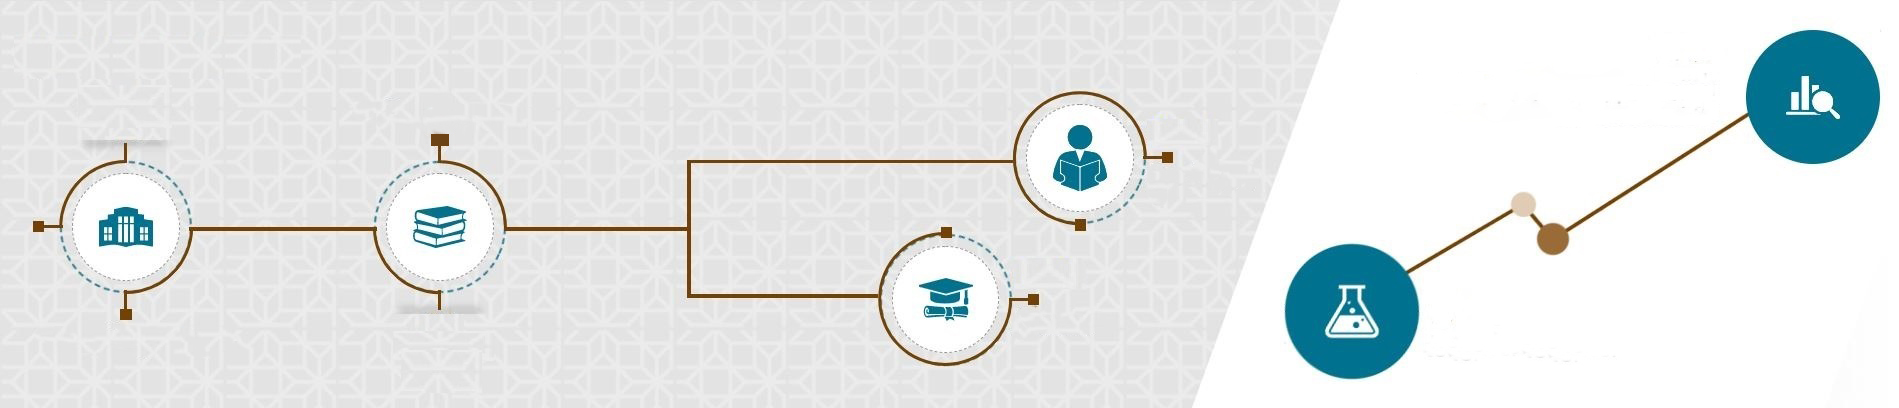
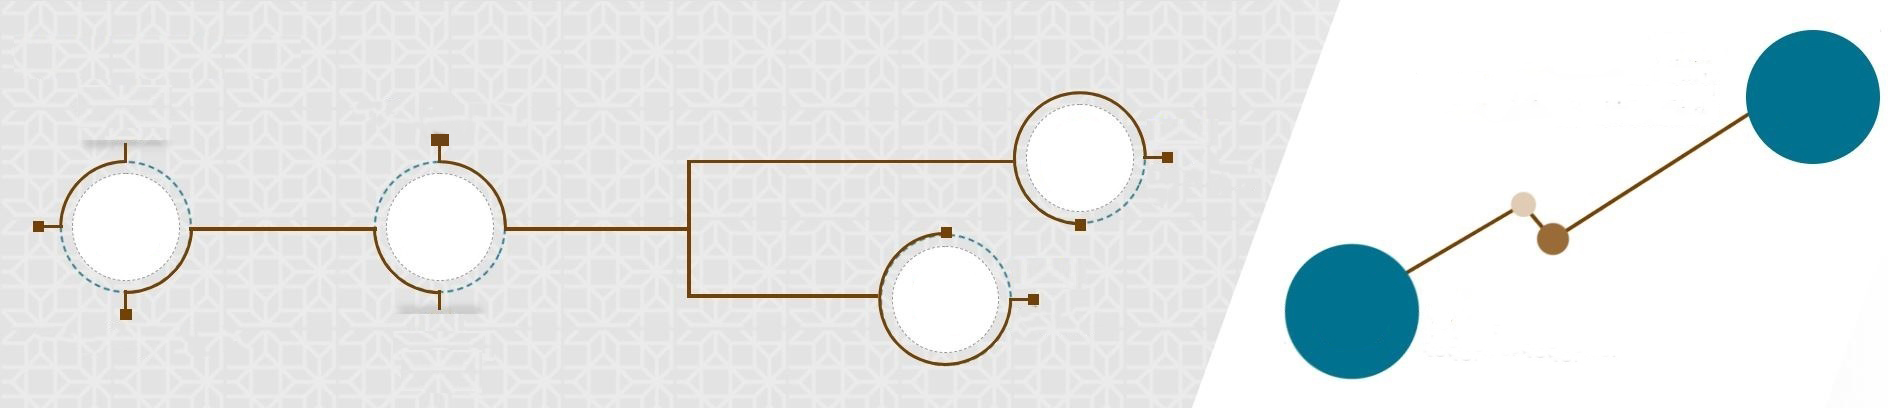
quick facts

diff --git a/index - Copy.html b/index - Copy.html
@@ -474,32 +474,25 @@
 						</div>
 						<div class="row">
 							<div class="col-sm-12 quickfact1 quickfact-image">
-								<div class="colleges-sm-number">501</div>
+								<div class="colleges-sm-number">50</div>
 								<div class="colleges-sm-text">Colleges</div>
-								<img class="colleges-xs-img" src="assets/images/svg/infograph-colleges.svg" alt="">
-								<div class="program-sm-number">25</div>
+				                 <div class="program-sm-number">25</div>
 								<div class="program-sm-text">Programs</div>
-								<img class="program-xs-img" src="assets/images/svg/infograph-programs.svg" alt="">
 								<div class="students-sm-number">10</div>
 								<div class="students-sm-text">Student</div>
-								<img class="students-xs-img" src="assets/images/svg/infograph-current-students.svg" alt="">
 								<div class="alumni-sm-number">20</div>
 								<div class="alumni-sm-text">Alumni</div>
-								<img class="alumni-xs-img" src="assets/images/svg/infograph-alumnis.svg" alt="">
 
 								<img src="assets/images/gallery/quick_facts1.jpg" style="width: 100%;">
 							</div>
 							<div class="col-sm-12 quickfact2 quickfact-image">
-								<img class="research-xs-img" src="assets/images/svg/infograph-research.svg" alt="">
 								<div class="research-sm-number">5</div>
 								<div class="research-sm-text">Research centers</div>
-								
 								<div class="projects-sm-number">5+</div>
 								<div class="projects-sm-text">Collaborative project with
 									<br>
 									international institution
 								</div>
-								<img class="projects-xs-img" src="assets/images/svg/infograph-research-increase.svg" alt="">
 								<img src="assets/images/gallery/quick_facts2.jpg" style="width: 100%;">
 							</div>
 							<div class="quickfact-main-image">
@@ -508,23 +501,18 @@
 								<img class="colleges-sm-img" src="assets/images/svg/infograph-colleges.svg" alt="">
 								<div class="programs-number">100</div>
 								<div class="programs-text">Programs</div>
-								<img class="program-sm-img" src="assets/images/svg/infograph-programs.svg" alt="">
 								<div class="alumni-number">50+K</div>
 								<div class="alumni-text">Alumni</div>
-								<img class="alumni-sm-img" src="assets/images/svg/infograph-alumnis.svg" alt="">
 								<div class="students-number">20+K</div>
 								<div class="students-text">Student</div>
-								<img class="students-sm-img" src="assets/images/svg/infograph-current-students.svg" alt="">
 								<div class="research-number">5</div>
 								<div class="research-text">Research centers</div>
-								<img class="research-sm-img" src="assets/images/svg/infograph-research.svg" alt="">
 								<div class="projects-number">5+</div>
 								<div class="projects-text">Collaborative project with
 									<br>
 									international institution
 								</div>
-								<img class="projects-sm-img" src="assets/images/svg/infograph-research-increase.svg" alt="">
-								<img src="assets/images/gallery/facts.jpg" style="width: 100%;">
+								<img src="assets/images/gallery/facts - Copy.jpg" style="width: 100%;">
 							</div>
 						</div>
 

diff --git a/assets/css/style.css b/assets/css/style.css
@@ -1676,6 +1676,21 @@ a {
 	margin-top: 11.3rem;
 	color: #000 !important;
 }
+.colleges-sm-img {
+	left: 4%;
+    margin-top: 10.3rem;
+    position: absolute;
+    width: 50px
+
+}
+.colleges-xs-img {
+    left: 13%;
+    margin-top: -5rem;
+    position: absolute;
+    width: 50px !important;
+
+}
+
 
 .program-sm-number {
 	left: 84.5%;
@@ -1687,6 +1702,21 @@ a {
 	margin-top: 0.5rem;
 	color: #000 !important;
 }
+.program-sm-img {
+	left: 21%;
+    margin-top: 10.3rem;
+    position: absolute;
+    width: 50px
+
+}
+.program-xs-img {
+	right: 25%;
+    margin-top: -5rem;
+    position: absolute;
+    width: 50px !important;
+
+}
+
 
 .students-sm-number {
 	left: 31%;
@@ -1697,6 +1727,20 @@ a {
 	left: 30%;
 	margin-top: 21.5rem;
 	color: #000 !important;
+}
+.students-sm-img{
+	left: 55.3%;
+    margin-top: 6rem;
+    position: absolute;
+    width: 50px;
+
+}
+.students-xs-img {
+	left: 13%;
+    margin-top: 8rem;
+    position: absolute;
+    width: 50px !important;
+
 }
 
 .alumni-sm-number {
@@ -1709,6 +1753,20 @@ a {
 	margin-top: 21.5rem;
 	color: #000 !important;
 }
+.alumni-sm-img {
+	left: 48%;
+    margin-top: 14.3rem;
+    position: absolute;
+    width: 50px;
+
+}
+.alumni-xs-img {
+	right: 25%;
+    margin-top: 8rem;
+    position: absolute;
+    width: 50px !important;
+
+}
 
 .research-sm-number {
 	left: 29.5%;
@@ -1720,10 +1778,32 @@ a {
 	margin-top: 18.5rem;
 	color: #000 !important;
 }
+.research-sm-img{
+	left: 70%;
+    margin-top: 14rem;
+    position: absolute;
+    width: 50px;
+
+
+}
+.research-xs-img {
+	left: 13%;
+    margin-top: 5.3rem;
+    position: absolute;
+    width: 44px !important;
+
+}
 
 .projects-sm-number {
 	left: 63.5%;
 	margin-top: 5.5rem;
+}
+.projects-sm-img{
+	right: 2%;
+    margin-top: 4rem;
+    position: absolute;
+    width: 50px;
+
 }
 
 .projects-sm-text {
@@ -1731,6 +1811,14 @@ a {
 	margin-top: 7rem;
 	color: #000 !important;
 }
+.projects-xs-img {
+	right: 13%;
+    margin-top: -4.3rem;
+    position: absolute;
+    width: 50px !important;
+
+}
+
 
 @media only screen and (max-width: 770px) {
 
